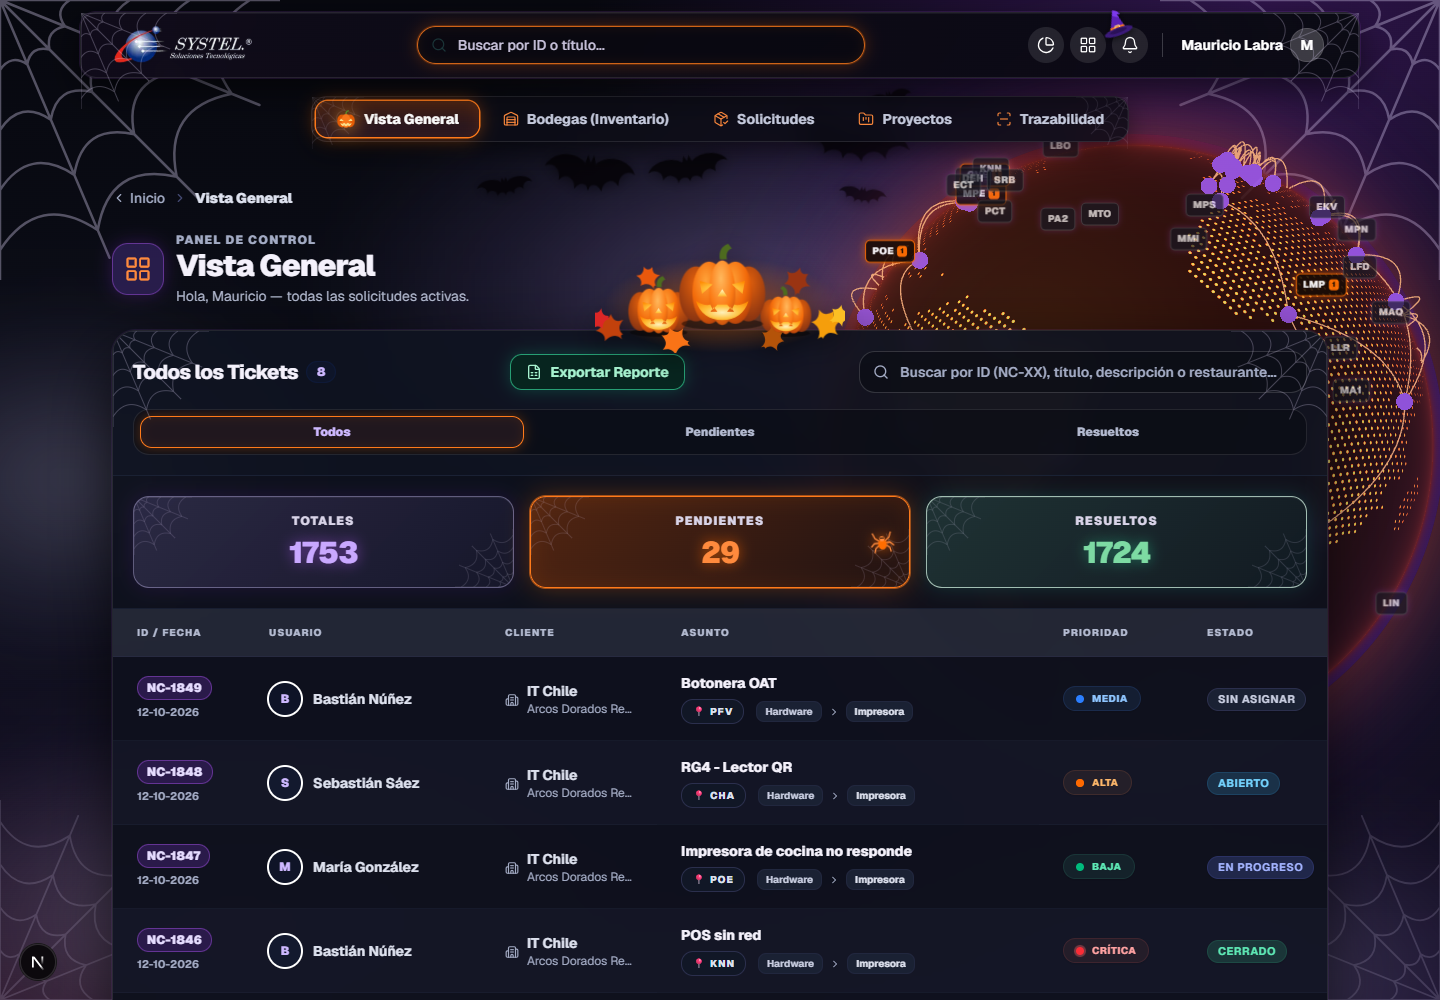
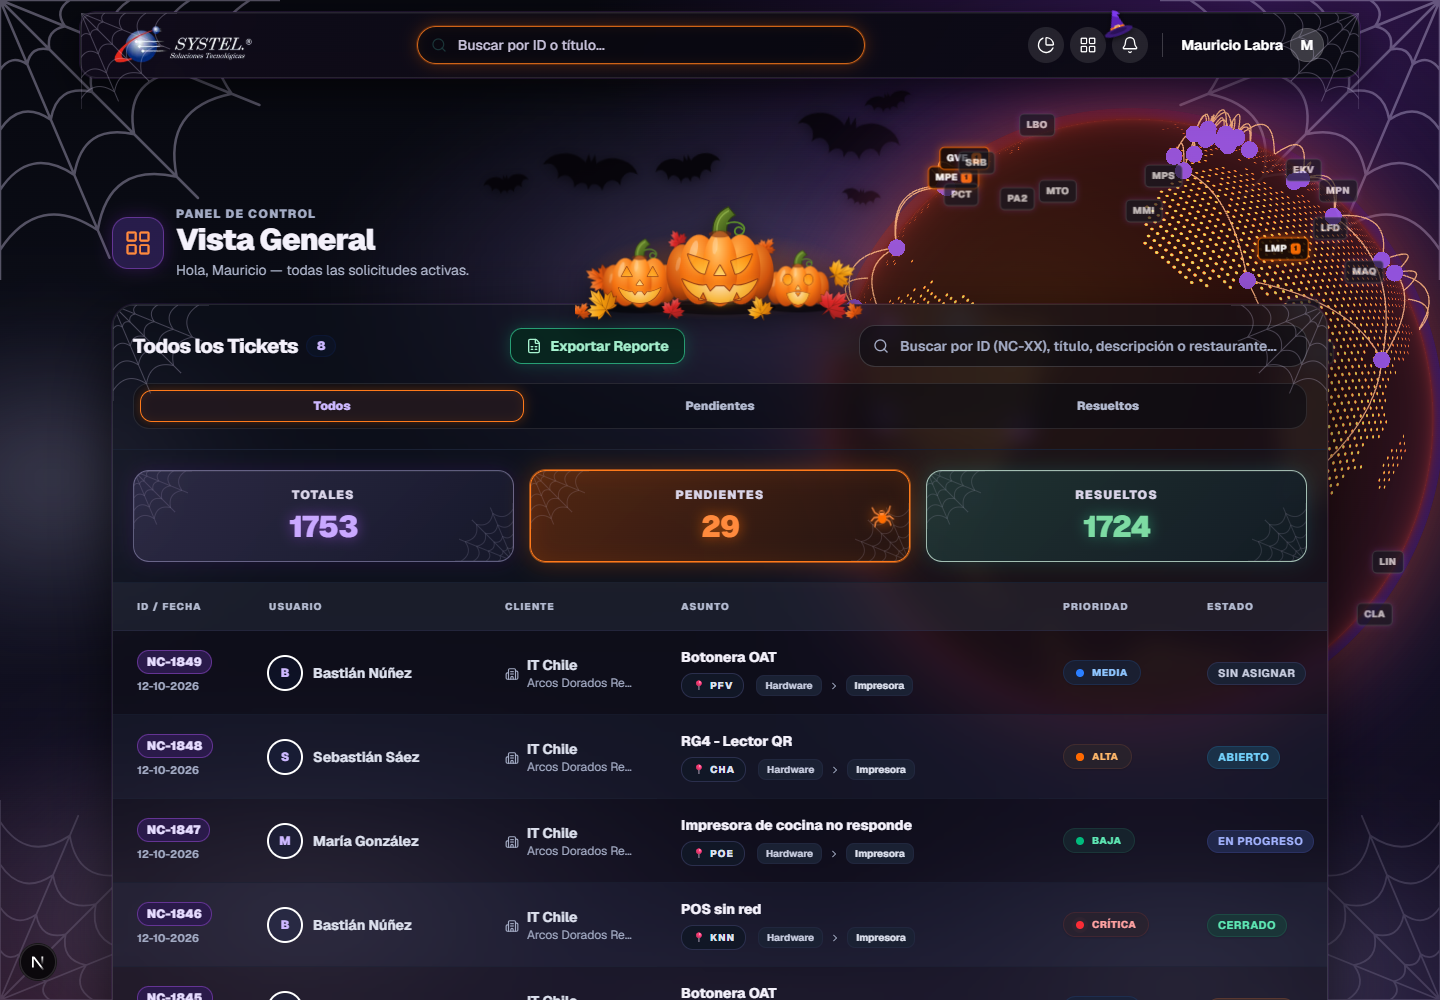
feat: calabazas y hojas redisenadas, panel translucido en tema Halloween
- Calabazas con gajos sombreados, brillos, tallo con zarcillo y tres caras
  talladas distintas con halo de vela; hojas de arce con nervaduras.
- Panel, tarjetas y filas de la tabla translucidos para que el globo se
  aprecie detras, igual que en el tema claro.

diff --git a/components/theme/HalloweenDecor.tsx b/components/theme/HalloweenDecor.tsx
@@ -45,64 +45,105 @@ export function PumpkinIcon({ className = '' }: { className?: string }) {
     );
 }
 
-const leaf = "M0 0c-1-5-5-6-9-5 2-2 2-5-1-8 4 1 6-1 7-5 1 3 3 4 6 2-1 4 0 6 4 7-4 1-6 3-5 7-1-1-2 0-2 2z";
+// Hoja de arce (punta hacia arriba, tallo en 0,20) y sus nervaduras
+const mapleLeaf = "M0 20L-1.5 9C-6 12-11 13-15 12L-13 9-21 3-17 1.5-20-6-13-5-12-9-6-3-8-17-4-15 0-23 4-15 8-17 6-3 12-9 13-5 20-6 17 1.5 21 3 13 9 15 12C11 13 6 12 1.5 9Z";
+const mapleVeins = "M0 12V-20M0 8L-17-4M0 8L17-4M0 10L-12 10M0 10L12 10M0 2L-7-14M0 2L7-14";
 
-function Jack({ x, y, s, flip = false }: { x: number; y: number; s: number; flip?: boolean }) {
+function Leaf({ x, y, s, r, tone }: { x: number; y: number; s: number; r: number; tone: 'amber' | 'orange' | 'red' }) {
     return (
-        <g transform={`translate(${x} ${y}) scale(${flip ? -s : s} ${s})`}>
-            <ellipse cx="0" cy="27" rx="34" ry="5" fill="#000" opacity=".45" />
-            <path d="M-2-27c-1-6 1-11 7-13l3 4c-4 1-5 5-4 9z" fill="#4d6b1f" />
-            <ellipse cx="-22" cy="2" rx="14" ry="23" fill="url(#hw-pk-dark)" />
-            <ellipse cx="22" cy="2" rx="14" ry="23" fill="url(#hw-pk-dark)" />
-            <ellipse cx="-11" cy="1" rx="14" ry="26" fill="url(#hw-pk)" />
-            <ellipse cx="11" cy="1" rx="14" ry="26" fill="url(#hw-pk)" />
-            <ellipse cx="0" cy="1" rx="11" ry="27" fill="url(#hw-pk-light)" />
-            <g className="hw-patch-glow" fill="url(#hw-pk-fire)">
-                <path d="M-19-9l11 3-9 8zM19-9l-11 3 9 8zM0-2l4 6h-8z" />
-                <path d="M-22 8c5 3 9 4 12 3l2 4 4-4h8l4 4 2-4c3 1 7 0 12-3-3 10-11 16-22 16s-19-6-22-16zm12 9l3-4 3 4zm14 0l3-4 3 4z" fillRule="evenodd" />
+        <g transform={`translate(${x} ${y}) rotate(${r}) scale(${s})`}>
+            <path d={mapleLeaf} fill={`url(#hw-leaf-${tone})`} stroke="#431407" strokeOpacity=".45" strokeWidth=".8" strokeLinejoin="round" />
+            <path d={mapleVeins} fill="none" stroke="#431407" strokeOpacity=".4" strokeWidth=".7" strokeLinecap="round" />
+        </g>
+    );
+}
+
+// Caras talladas (coordenadas locales de la calabaza). evenodd deja los dientes sin recortar.
+const FACES = {
+    wicked: "M-23-9L-8-4-11 5Q-19 4-23-9ZM23-9L8-4 11 5Q19 4 23-9ZM0-1L4 6H-4ZM-27 9Q-14 15-10 13L-7 18-3 14H3L7 18 10 13Q14 15 27 9 21 25 0 26-21 25-27 9ZM-15 23.500L-12 18-9 24.500ZM9 24.500L12 18 15 23.500Z",
+    happy: "M-19-4L-8-4-13.5-14ZM19-4L8-4 13.5-14ZM0 0L3.5 5H-3.500ZM-22 8Q-12 13-8 12L-5 16-2 12H2L5 16 8 12Q12 13 22 8 16 24 0 24-16 24-22 8Z",
+    spooked: "M-13-13A5.5 6.5 0 1 0-12.99-13ZM13-13A5.5 6.5 0 1 0 13.01-13ZM0 1L3 6H-3ZM-14 11Q0 6 14 11 10 25 0 25-10 25-14 11ZM-4 9.500L0 15 4 9.500Z",
+};
+
+function Jack({ x, y, s, face }: { x: number; y: number; s: number; face: keyof typeof FACES }) {
+    return (
+        <g transform={`translate(${x} ${y}) scale(${s})`}>
+            <ellipse cx="0" cy="29" rx="40" ry="5.5" fill="#000" opacity=".5" />
+            {/* Tallo y zarcillo */}
+            <path d="M-5-22C-6-31-3-39 6-43L11-37C6-35 4-30 5-22Z" fill="url(#hw-pk-stem)" stroke="#2f3f12" strokeWidth=".8" />
+            <path d="M-2-24C-3-31 0-37 6-40" fill="none" stroke="#a3c75a" strokeOpacity=".6" strokeWidth="1" strokeLinecap="round" />
+            <path d="M5-31c8-3 14 1 12 6-2 4-8 2-6-2 1-2 4-2 5 0" fill="none" stroke="#5b8c2a" strokeWidth="1.3" strokeLinecap="round" />
+            {/* Gajos: cada uno con su propio degradado para marcar los surcos */}
+            <ellipse cx="-27" cy="4" rx="11.5" ry="20" fill="url(#hw-pk-outer)" />
+            <ellipse cx="27" cy="4" rx="11.5" ry="20" fill="url(#hw-pk-outer)" />
+            <ellipse cx="-15" cy="2" rx="14" ry="25" fill="url(#hw-pk-mid)" />
+            <ellipse cx="15" cy="2" rx="14" ry="25" fill="url(#hw-pk-mid)" />
+            <ellipse cx="0" cy="1.5" rx="12.5" ry="27" fill="url(#hw-pk-core)" />
+            <ellipse cx="0" cy="-23.5" rx="8" ry="2.5" fill="#7c2d12" opacity=".6" />
+            {/* Brillos */}
+            <ellipse cx="-19" cy="-11" rx="2.6" ry="8" fill="#fff" opacity=".3" transform="rotate(16 -19 -11)" />
+            <ellipse cx="-3.5" cy="-15" rx="1.8" ry="6" fill="#fff" opacity=".22" transform="rotate(6 -3.5 -15)" />
+            <ellipse cx="-30" cy="-2" rx="1.5" ry="5" fill="#fff" opacity=".18" transform="rotate(14 -30 -2)" />
+            {/* Cara: halo de la vela, borde tallado y fuego */}
+            <g className="hw-patch-glow">
+                <path d={FACES[face]} fillRule="evenodd" fill="#ffae1a" opacity=".9" filter="url(#hw-pk-blur)" />
+                <path d={FACES[face]} fillRule="evenodd" fill="url(#hw-pk-fire)" stroke="#7c2d12" strokeWidth="1.4" strokeLinejoin="round" paintOrder="stroke" />
             </g>
         </g>
     );
 }
 
-/** Tres calabazas con hojas de otoño, apoyadas sobre el borde superior de un panel (el padre debe ser `relative`). */
+/** Tres calabazas talladas con hojas de arce, apoyadas sobre el borde superior de un panel (el padre debe ser `relative`). */
 export function PumpkinPatch() {
     if (!isHalloween) return null;
     return (
-        <svg className="hw-patch" viewBox="0 0 220 112" aria-hidden="true">
+        <svg className="hw-patch" viewBox="0 0 260 122" aria-hidden="true">
             <defs>
-                <radialGradient id="hw-pk" cx="40%" cy="30%" r="80%">
-                    <stop offset="0" stopColor="#ffa238" /><stop offset=".55" stopColor="#f26a0a" /><stop offset="1" stopColor="#a8380a" />
+                <radialGradient id="hw-pk-core" cx="42%" cy="24%" r="85%">
+                    <stop offset="0" stopColor="#ffc46b" /><stop offset=".45" stopColor="#ff8a1f" /><stop offset=".85" stopColor="#d9530c" /><stop offset="1" stopColor="#9a3a0b" />
                 </radialGradient>
-                <radialGradient id="hw-pk-light" cx="45%" cy="28%" r="80%">
-                    <stop offset="0" stopColor="#ffb85c" /><stop offset=".6" stopColor="#fb7a14" /><stop offset="1" stopColor="#bf4a0c" />
+                <radialGradient id="hw-pk-mid" cx="40%" cy="24%" r="85%">
+                    <stop offset="0" stopColor="#ffab4a" /><stop offset=".5" stopColor="#f47312" /><stop offset=".88" stopColor="#c2470c" /><stop offset="1" stopColor="#84300b" />
                 </radialGradient>
-                <radialGradient id="hw-pk-dark" cx="50%" cy="30%" r="80%">
-                    <stop offset="0" stopColor="#e2600c" /><stop offset="1" stopColor="#7c2d12" />
+                <radialGradient id="hw-pk-outer" cx="45%" cy="26%" r="85%">
+                    <stop offset="0" stopColor="#f08a2c" /><stop offset=".55" stopColor="#cf520d" /><stop offset="1" stopColor="#6b2409" />
                 </radialGradient>
-                <radialGradient id="hw-pk-fire" cx="50%" cy="60%" r="70%">
-                    <stop offset="0" stopColor="#fff6c2" /><stop offset=".5" stopColor="#ffc53d" /><stop offset="1" stopColor="#ff8a00" />
+                <radialGradient id="hw-pk-fire" cx="50%" cy="62%" r="70%">
+                    <stop offset="0" stopColor="#fffbe0" /><stop offset=".45" stopColor="#ffd34d" /><stop offset="1" stopColor="#ff8a00" />
                 </radialGradient>
                 <radialGradient id="hw-pk-halo" cx="50%" cy="50%" r="50%">
-                    <stop offset="0" stopColor="#ff7a1a" stopOpacity=".55" /><stop offset="1" stopColor="#ff7a1a" stopOpacity="0" />
+                    <stop offset="0" stopColor="#ff7a1a" stopOpacity=".5" /><stop offset="1" stopColor="#ff7a1a" stopOpacity="0" />
                 </radialGradient>
+                <linearGradient id="hw-pk-stem" x1="0" y1="0" x2="1" y2="1">
+                    <stop offset="0" stopColor="#8aa83a" /><stop offset=".6" stopColor="#4d6b1f" /><stop offset="1" stopColor="#2f3f12" />
+                </linearGradient>
+                <linearGradient id="hw-leaf-amber" x1="0" y1="0" x2="1" y2="1">
+                    <stop offset="0" stopColor="#fde68a" /><stop offset=".5" stopColor="#f59e0b" /><stop offset="1" stopColor="#b45309" />
+                </linearGradient>
+                <linearGradient id="hw-leaf-orange" x1="0" y1="0" x2="1" y2="1">
+                    <stop offset="0" stopColor="#fdba74" /><stop offset=".5" stopColor="#ea580c" /><stop offset="1" stopColor="#7c2d12" />
+                </linearGradient>
+                <linearGradient id="hw-leaf-red" x1="0" y1="0" x2="1" y2="1">
+                    <stop offset="0" stopColor="#fca5a5" /><stop offset=".45" stopColor="#dc2626" /><stop offset="1" stopColor="#7f1d1d" />
+                </linearGradient>
+                <filter id="hw-pk-blur" x="-30%" y="-30%" width="160%" height="160%"><feGaussianBlur stdDeviation="2.6" /></filter>
             </defs>
-            <ellipse className="hw-patch-glow" cx="112" cy="70" rx="104" ry="42" fill="url(#hw-pk-halo)" />
-            <g>
-                <path d={leaf} fill="#c2410c" transform="translate(24 100) scale(1.5) rotate(-35)" />
-                <path d={leaf} fill="#f59e0b" transform="translate(196 100) scale(1.6) rotate(40)" />
-                <path d={leaf} fill="#9a3412" transform="translate(176 62) scale(1.4) rotate(20)" />
-                <path d={leaf} fill="#ea580c" transform="translate(52 56) scale(1.2) rotate(-15)" />
-            </g>
-            <Jack x={168} y={78} s={0.62} flip />
-            <Jack x={56} y={74} s={0.74} />
-            <Jack x={112} y={58} s={1.05} />
-            <g>
-                <path d={leaf} fill="#f97316" transform="translate(84 106) scale(1.5) rotate(-60)" />
-                <path d={leaf} fill="#b45309" transform="translate(146 107) scale(1.3) rotate(65)" />
-                <path d={leaf} fill="#fbbf24" transform="translate(206 84) scale(1.1) rotate(75)" />
-                <path d={leaf} fill="#dc2626" transform="translate(14 82) scale(1.1) rotate(-80)" />
-            </g>
+            <ellipse className="hw-patch-glow" cx="130" cy="82" rx="124" ry="40" fill="url(#hw-pk-halo)" />
+            {/* Hojas detrás */}
+            <Leaf x={22} y={84} s={0.6} r={-62} tone="orange" />
+            <Leaf x={238} y={80} s={0.62} r={70} tone="amber" />
+            <Leaf x={92} y={50} s={0.42} r={-28} tone="red" />
+            <Leaf x={172} y={56} s={0.4} r={36} tone="orange" />
+            <Jack x={200} y={90} s={0.72} face="spooked" />
+            <Jack x={58} y={86} s={0.86} face="happy" />
+            <Jack x={130} y={74} s={1.25} face="wicked" />
+            {/* Hojas delante, sobre el borde del panel */}
+            <Leaf x={24} y={108} s={0.72} r={-38} tone="amber" />
+            <Leaf x={88} y={112} s={0.5} r={24} tone="red" />
+            <Leaf x={166} y={112} s={0.55} r={-18} tone="amber" />
+            <Leaf x={232} y={108} s={0.7} r={48} tone="red" />
+            <Leaf x={250} y={114} s={0.4} r={-25} tone="orange" />
+            <Leaf x={6} y={114} s={0.4} r={30} tone="orange" />
         </svg>
     );
 }

diff --git a/app/halloween.css b/app/halloween.css
@@ -421,7 +421,7 @@ html[data-theme="halloween"] {
 [data-theme="halloween"] .hw-title-icon svg { color: #ff8a3d; }
 
 /* ---- Tarjetas de métricas ---- */
-[data-theme="halloween"] .hw-card { position: relative; overflow: hidden; background-color: rgba(14,16,28,.7); transition: box-shadow .2s, transform .2s; }
+[data-theme="halloween"] .hw-card { position: relative; overflow: hidden; background-color: rgba(14,16,28,.42); transition: box-shadow .2s, transform .2s; }
 [data-theme="halloween"] .hw-card::before,
 [data-theme="halloween"] .hw-card::after {
   content: ""; position: absolute; width: 58px; height: 58px; pointer-events: none; opacity: .26;
@@ -439,16 +439,19 @@ html[data-theme="halloween"] {
 
 /* ---- Contenedor principal y tabla ---- */
 [data-theme="halloween"] .hw-panel {
-  background-color: rgba(10,12,22,.84);
+  background-color: rgba(10,12,22,.46);
   border-color: rgba(255,255,255,.10);
   box-shadow: 0 0 0 1px rgba(157,78,221,.10), 0 22px 60px rgba(0,0,0,.65);
 }
+[data-theme="halloween"] .hw-panel-head { background-color: rgba(21,27,45,.16); }
 [data-theme="halloween"] .hw-panel-search { background-color: rgba(8,9,16,.55); border-color: rgba(255,255,255,.16); }
 [data-theme="halloween"] .hw-filter-bar { background-color: rgba(8,9,16,.55); border-color: rgba(255,255,255,.10); }
 [data-theme="halloween"] .hw-filter-pill { background-color: rgba(34,24,30,.92); border-color: #ff7a1a; box-shadow: 0 0 12px rgba(255,109,0,.32), inset 0 0 10px rgba(255,109,0,.10); }
-[data-theme="halloween"] .hw-table thead { background-color: rgba(40,44,60,.82); }
-[data-theme="halloween"] .hw-table tbody tr { background-color: rgba(14,16,28,.78); }
-[data-theme="halloween"] .hw-table tbody tr:nth-child(even) { background-color: rgba(20,22,38,.78); }
+[data-theme="halloween"] .hw-table thead { background-color: rgba(40,44,60,.5); }
+/* Panel translúcido: el globo se alcanza a ver detrás, como en el tema claro */
+[data-theme="halloween"] .hw-table tbody { background-color: transparent; }
+[data-theme="halloween"] .hw-table tbody tr { background-color: rgba(14,16,28,.26); }
+[data-theme="halloween"] .hw-table tbody tr:nth-child(even) { background-color: rgba(34,36,58,.32); }
 [data-theme="halloween"] .hw-table tbody tr:hover { background-color: rgba(123,44,191,.24); box-shadow: inset 3px 0 0 var(--hw-orange); }
 [data-theme="halloween"] .hw-id { background-color: #2a1a4a; color: #e6dcff; box-shadow: inset 0 0 0 1px rgba(157,78,221,.5); }
 
@@ -503,7 +506,7 @@ html[data-theme="halloween"] {
 .hw-screen-web-br { bottom: 0; right: 0; transform: scale(-1, -1); width: 200px; height: 200px; opacity: .16; }
 
 /* ---- Calabazas sobre el panel, sombrero de bruja y araña ---- */
-.hw-patch { display: none; position: absolute; left: 50%; top: 0; width: 250px; transform: translate(-50%, -82%); pointer-events: none; z-index: 11; filter: drop-shadow(0 8px 14px rgba(0,0,0,.55)); }
+.hw-patch { display: none; position: absolute; left: 50%; top: 0; width: 290px; transform: translate(-50%, -88%); pointer-events: none; z-index: 11; filter: drop-shadow(0 8px 14px rgba(0,0,0,.55)); }
 @media (min-width: 1180px) { .hw-patch { display: block; } }
 .hw-patch-glow { animation: hw-candle 3.4s ease-in-out infinite; }
 .hw-hat { position: absolute; width: 32px; height: 32px; left: -12px; top: -19px; rotate: -20deg; pointer-events: none; z-index: 5; filter: drop-shadow(0 2px 3px rgba(0,0,0,.6)); }

diff --git a/app/dashboard/tecnico/components/AdminTicketList.tsx b/app/dashboard/tecnico/components/AdminTicketList.tsx
@@ -314,7 +314,7 @@ export function AdminTicketList({ initialTickets, currentAgentId, agentName, tot
             <div className="hw-panel hw-web relative z-10 bg-white/70 backdrop-blur-md shadow-lg rounded-3xl overflow-hidden border border-slate-200/40 w-full">
             
                 {/* Header / Controles Principales (Visible Móvil y Desktop) */}
-            <div className="p-5 border-b border-slate-100 flex flex-col bg-white/40 gap-4 w-full">
+            <div className="hw-panel-head p-5 border-b border-slate-100 flex flex-col bg-white/40 gap-4 w-full">
                 <div className="flex flex-col lg:flex-row lg:items-center justify-between gap-4 w-full">
                     {/* Título y Badge */}
                     <div className="flex items-center gap-2">
